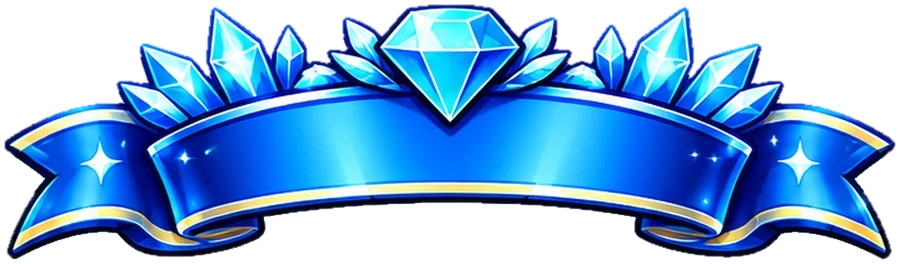
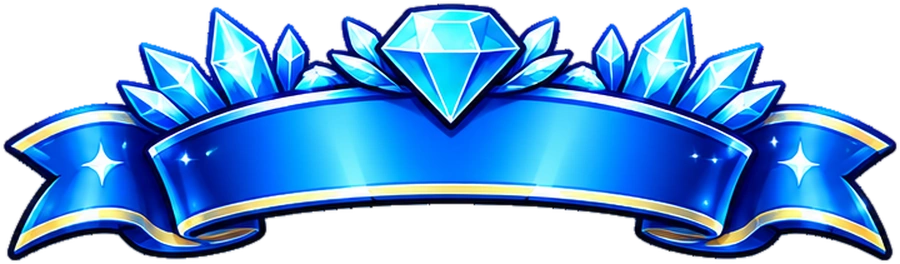
v240 : rubans redécoupés proprement, pseudo centré dans chaque ruban, photo de profil plus petite
Claude-Session: https://claude.ai/code/session_015rMa72ZKTeXG5gb4Qifn48

Changed region(s): [[0.0, 0.0, 1.0, 1.0]]

diff --git a/js/app.js b/js/app.js
@@ -1,17 +1,17 @@
 // Y'a du peuple ? — logique de l'appli (carte, fiche, signalement, compte).
-import { api, DEMO } from './api.js?v=239';
+import { api, DEMO } from './api.js?v=240';
 import {
   MAP_STYLE_URL, DEFAULT_CENTER, DEFAULT_ZOOM, CONTACT_EMAIL, GOOGLE_CLIENT_ID,
   ROUTE, REFRESH_MS,
-} from './config.js?v=239';
+} from './config.js?v=240';
 import {
   LEVELS, LEVEL_INFO, WAIT_INFO, NO_INFO, levelInfo, describeStatus, mainStatus, brandShort,
   theoryLevelAt, parisNow, bestTimeToday, fmtHour, distanceM, fmtDistance, ago,
   levelFromPercent, gDay, dayHours, openDuringHour, bestTimeFromProfile, openState, hoursLines,
   estimateRoute, fmtDuration,
-} from './levels.js?v=239';
-import { airbnbize, addShieldImage } from './mapstyle.js?v=239';
-import { BRAND_PATHS } from './brands.js?v=239';
+} from './levels.js?v=240';
+import { airbnbize, addShieldImage } from './mapstyle.js?v=240';
+import { BRAND_PATHS } from './brands.js?v=240';
 
 // ---------------------------------------------------------------------------
 // État
@@ -1690,9 +1690,9 @@ let imagesPreloaded = false;
 function preloadAccountImages() {
   if (imagesPreloaded) return;
   imagesPreloaded = true;
-  const urls = new Set([...BADGE_ART].map((c) => `icons/badges/${c}.webp?v=239`));
+  const urls = new Set([...BADGE_ART].map((c) => `icons/badges/${c}.webp?v=240`));
   custom.load().then((list) => {
-    (list || []).forEach((c) => { if (/\.(webp|png|svg)$/.test(c.value || '')) urls.add(`${c.value}?v=239`); });
+    (list || []).forEach((c) => { if (/\.(webp|png|svg)$/.test(c.value || '')) urls.add(`${c.value}?v=240`); });
   }).catch(() => {}).finally(() => {
     const go = () => urls.forEach((u) => { const im = new Image(); im.decoding = 'async'; im.src = u; im.decode?.().catch(() => {}); preloaded.push(im); });
     (window.requestIdleCallback || ((f) => setTimeout(f, 300)))(go);
@@ -1752,7 +1752,7 @@ async function renderAccount(tab = 'profil', opts = {}) {
     </div>
     <div class="referral">
       <div class="ref-head">
-        <img class="ref-ico" src="icons/badges/ref1.webp?v=239" alt="">
+        <img class="ref-ico" src="icons/badges/ref1.webp?v=240" alt="">
         <div class="grow"><div class="t">Parrainage</div><div class="s">Invite tes amis : vous gagnez tous les deux.</div></div>
         <span class="ref-count"><b>${p.referrals ?? 0}</b>${(p.referrals ?? 0) > 1 ? 'amis' : 'ami'}</span>
       </div>
@@ -1809,16 +1809,17 @@ const custom = {
   async load() { if (!this.list.length) this.list = await api.customizations() || []; return this.list; },
   find(kind, code) { return this.list.find((c) => c.kind === kind && c.code === code); },
   // Valeur = fichier image de l'appli (icons/avatars/…svg, icons/banners/…svg) ; ancien format emoji/dégradé toléré.
-  img(v, cls = '') { return /\.(webp|png|svg)$/.test(v || '') ? `<img src="${v}?v=239" alt="" class="${cls}">` : (v || ''); },
-  bg(v) { return /\.(webp|png|svg)$/.test(v || '') ? `url(${v}?v=239) center/cover` : v; },
+  img(v, cls = '') { return /\.(webp|png|svg)$/.test(v || '') ? `<img src="${v}?v=240" alt="" class="${cls}">` : (v || ''); },
+  bg(v) { return /\.(webp|png|svg)$/.test(v || '') ? `url(${v}?v=240) center/cover` : v; },
   avatar(code) { return this.img(this.find('avatar', code)?.value, 'avatar-img' + (String(code).startsWith('badge_') ? ' is-badge' : '')); },
   // Bannière = ruban qui porte le pseudo (rubans du 16/11/2026, outils/rubans_sheet2.py, découpés tels quels).
   // Pseudo : centré sur la bande de chaque ruban (hauteur mesurée) + contour de la couleur du ruban, foncée.
-  RIB: { ruban_ciel: ['42%', '#1c4e7f'], ruban_bonbon: ['42%', '#7a1f55'], ruban_turquoise: ['42%', '#0f5145'], ruban_orange: ['42%', '#7a3a00'], ruban_violet: ['42%', '#3d1466'], ruban_laurier: ['42%', '#1e5a4c'], ruban_nuit: ['42%', '#04203f'], ruban_vache: ['42%', '#5a3418'], ruban_damier: ['42%', '#111111'], ruban_flammes: ['42%', '#4a0a05'], ruban_vert: ['47%', '#1f5a0f'], ruban_fleurs: ['54%', '#245c0b'], ruban_coeur: ['59%', '#7d0f45'], ruban_flocon: ['60%', '#0b3a7a'], ruban_engrenage: ['58%', '#064450'], ruban_etoile_or: ['57%', '#6e3300'], ruban_diamant: ['61%', '#0a2f6e'], ruban_flamme_violet: ['58%', '#2e0a52'], ruban_etoile_violet: ['57%', '#3a0b5c'], ruban_couronne: ['56%', '#5a0606'] },
+  // --ty = milieu vertical de la bande du ruban, au centre (mesuré sur les images v240, outils/rubans_decoupe_v3.py)
+  RIB: { ruban_ciel: ['44%', '#1c4e7f'], ruban_bonbon: ['43%', '#7a1f55'], ruban_turquoise: ['42.5%', '#0f5145'], ruban_orange: ['43%', '#7a3a00'], ruban_violet: ['43.5%', '#3d1466'], ruban_laurier: ['43.5%', '#1e5a4c'], ruban_nuit: ['43%', '#04203f'], ruban_vache: ['43.5%', '#5a3418'], ruban_damier: ['44%', '#111111'], ruban_flammes: ['44%', '#4a0a05'], ruban_vert: ['41%', '#1f5a0f'], ruban_fleurs: ['57.9%', '#245c0b'], ruban_coeur: ['57.5%', '#7d0f45'], ruban_flocon: ['58.4%', '#0b3a7a'], ruban_engrenage: ['53.9%', '#064450'], ruban_etoile_or: ['56.3%', '#6e3300'], ruban_diamant: ['56.9%', '#0a2f6e'], ruban_flamme_violet: ['55.8%', '#2e0a52'], ruban_etoile_violet: ['53.5%', '#3a0b5c'], ruban_couronne: ['63%', '#5a0606'] },
   ribbon(code, pseudo) {
     const b = this.find('banner', code) || this.list.find((c) => c.kind === 'banner');
     const [ty, tc] = this.RIB[b?.code] || ['46%', '#0B1F3A'];
-    return `<div class="ribbon" style="--ty:${ty};--tc:${tc};--n:${Math.max(8, [...String(pseudo || '')].length)}">${b ? `<img src="${b.value}?v=239" alt="">` : ''}<span>${esc(pseudo || '')}</span></div>`;
+    return `<div class="ribbon" style="--ty:${ty};--tc:${tc};--n:${Math.max(8, [...String(pseudo || '')].length)}">${b ? `<img src="${b.value}?v=240" alt="">` : ''}<span>${esc(pseudo || '')}</span></div>`;
   },
 };
 async function openCustomize() {
@@ -1831,7 +1832,7 @@ async function openCustomize() {
     const needBadge = !all && c.requires_badge && !mine.has(c.requires_badge);
     const locked = !all && (lvl < c.min_level || needBadge);
     const on = (c.kind === 'avatar' ? p.avatar : p.banner) === c.code;
-    const inner = c.kind === 'avatar' ? `<span class="cz-emoji">${custom.img(c.value, 'cz-img')}</span>` : `<span class="cz-ribbon"><img src="${c.value}?v=239" alt=""></span>`;
+    const inner = c.kind === 'avatar' ? `<span class="cz-emoji">${custom.img(c.value, 'cz-img')}</span>` : `<span class="cz-ribbon"><img src="${c.value}?v=240" alt=""></span>`;
     const label = c.requires_badge ? (needBadge ? '🔒' : '✅') : `${locked ? '🔒 ' : ''}Niv. ${c.min_level}`;
     return `<button type="button" class="cz ${on ? 'on' : ''} ${locked ? 'locked' : ''}" data-kind="${c.kind}" data-code="${c.code}" ${locked ? 'disabled' : ''}>
       ${inner}<span class="cz-lock">${esc(label)}</span></button>`;
@@ -1919,7 +1920,7 @@ const BADGE_ART = new Set(['v1', 'v10', 'v50', 'v100', 'v250', 'v500', 'drive10'
 // Badges en .svg : plus aucun (outils/badges_sheet.py et badges_sheet2.py découpent les images ChatGPT).
 const BADGE_SVG = new Set(); // tous les badges sont maintenant des images ChatGPT (.webp)
 const badgeImg = (code) => BADGE_ART.has(code)
-  ? `<img src="icons/badges/${code}.${BADGE_SVG.has(code) ? 'svg' : 'webp'}?v=239" alt="" class="badge-img">`
+  ? `<img src="icons/badges/${code}.${BADGE_SVG.has(code) ? 'svg' : 'webp'}?v=240" alt="" class="badge-img">`
   : `<span class="badge-emoji">${BADGE_ICONS[code] || '🏅'}</span>`;
 function badgesHtml(rows = []) {
   if (!rows.length) return '<p class="muted">Aucun badge pour le moment.</p>';
@@ -2947,7 +2948,7 @@ async function openWheel(month = parisMonth(-1)) {
   const el = document.createElement('div');
   el.id = 'wheel';
   el.innerHTML = `<button class="wh-x" aria-label="Fermer">✕</button><button class="wh-snd" aria-label="Son">🔊</button>
-    <div class="wh-head"><img src="icons/logo-boot.png?v=239" alt="Y'a du peuple ?"><div class="wh-t">Tirage au sort</div><div class="wh-m">${monthLabel(month)}${official ? '' : ' · essai'}</div></div>
+    <div class="wh-head"><img src="icons/logo-boot.png?v=240" alt="Y'a du peuple ?"><div class="wh-t">Tirage au sort</div><div class="wh-m">${monthLabel(month)}${official ? '' : ' · essai'}</div></div>
     <div class="wh-stage"><div class="wh-ptr"></div><canvas width="900" height="900"></canvas><div class="wh-hub"></div></div>
     <div class="wh-now">⏳</div>
     <div class="wh-info"></div>

diff --git a/css/app.css b/css/app.css
@@ -650,13 +650,13 @@ html, body, .sheet, .sheet-body, .welcome, .cards { touch-action: pan-x pan-y; }
 @keyframes barwait { from { opacity: .45; } to { opacity: 1; } }
 /* Profil : avatar au centre, ruban qui porte le pseudo */
 .profile-head { display: flex; flex-direction: column; align-items: center; text-align: center; gap: 2px; padding-top: 4px; }
-.profile-head .avatar { width: 108px; height: 108px; background: transparent; box-shadow: none; position: relative; z-index: 2; }
+.profile-head .avatar { width: 92px; height: 92px; background: transparent; box-shadow: none; position: relative; z-index: 2; }
 .profile-head .avatar-img { filter: drop-shadow(0 4px 10px rgba(0,0,0,.35)); }
 .profile-head .avatar .avatar-img.is-badge { width: 100%; height: 100%; margin: 0; }
 .profile-head .avatar-edit { right: 2px; bottom: 2px; }
 .ribbon { container-type: inline-size; position: relative; z-index: 1; width: min(100%, 330px); margin-top: 10px; filter: drop-shadow(0 3px 6px rgba(11,31,58,.18)); }
 .ribbon img { display: block; width: 100%; height: auto; }
-.ribbon span { position: absolute; left: 21%; right: 21%; top: var(--ty, 46%); transform: translateY(-50%); text-align: center; font-weight: 900; font-size: min(clamp(15px, 5.2vw, 21px), calc(55cqw / (var(--n, 10) * 0.64))); line-height: 1.15; color: #fff; letter-spacing: .3px; white-space: nowrap; overflow: hidden; text-overflow: ellipsis; padding: 3px 2px;
+.ribbon span { position: absolute; left: 21%; right: 21%; top: var(--ty, 46%); transform: translateY(-42%); text-align: center; font-weight: 900; font-size: min(clamp(15px, 5.2vw, 21px), calc(55cqw / (var(--n, 10) * 0.64))); line-height: 1.15; color: #fff; letter-spacing: .3px; white-space: nowrap; overflow: hidden; text-overflow: ellipsis; padding: 3px 2px;
   text-shadow: 2px 0 0 var(--tc), -2px 0 0 var(--tc), 0 2px 0 var(--tc), 0 -2px 0 var(--tc), 1.5px 1.5px 0 var(--tc), -1.5px 1.5px 0 var(--tc), 1.5px -1.5px 0 var(--tc), -1.5px -1.5px 0 var(--tc), 0 3px 4px rgba(0,0,0,.35); }
 .profile-head .lvl { margin-top: 2px; }
 .cz-ribbon { display: block; width: 100%; }
@@ -863,7 +863,7 @@ html, body, .sheet, .sheet-body, .welcome, .cards { touch-action: pan-x pan-y; }
 #wheel .wh-stage { position: relative; width: min(88vw, 52vh, 460px); aspect-ratio: 1; margin: 16px 0 10px; }
 #wheel canvas { width: 100%; height: 100%; display: block; filter: drop-shadow(0 10px 24px rgba(11,31,58,.35)); }
 #wheel .wh-ptr { position: absolute; left: 50%; top: -14px; transform: translateX(-50%); width: 0; height: 0; border-left: 18px solid transparent; border-right: 18px solid transparent; border-top: 34px solid #0B1F3A; z-index: 2; filter: drop-shadow(0 2px 2px rgba(0,0,0,.3)); }
-#wheel .wh-hub { position: absolute; left: 50%; top: 50%; width: 15%; aspect-ratio: 1; transform: translate(-50%, -50%); border-radius: 50%; background: #fff url('../icons/icon-192.png?v=239') center / 78% no-repeat; box-shadow: 0 2px 8px rgba(0,0,0,.25); }
+#wheel .wh-hub { position: absolute; left: 50%; top: 50%; width: 15%; aspect-ratio: 1; transform: translate(-50%, -50%); border-radius: 50%; background: #fff url('../icons/icon-192.png?v=240') center / 78% no-repeat; box-shadow: 0 2px 8px rgba(0,0,0,.25); }
 #wheel .wh-now { min-height: 44px; font-size: 32px; font-weight: 900; color: #fff; text-shadow: 0 2px 6px rgba(11,31,58,.35); text-align: center; max-width: 100%; overflow: hidden; text-overflow: ellipsis; white-space: nowrap; }
 #wheel .wh-info { font-size: 15px; font-weight: 700; color: #0B1F3A; margin: 2px 0 12px; }
 #wheel .wh-actions { width: min(100%, 420px); margin-top: auto; }

diff --git a/index.html b/index.html
@@ -23,13 +23,13 @@
   <link rel="preconnect" href="https://tiles.openfreemap.org" crossorigin>
   <link rel="preconnect" href="https://ygekcpnsjbbdgtmlxdce.supabase.co" crossorigin>
   <link rel="manifest" href="manifest.webmanifest">
-  <link rel="icon" href="icons/fav-64.png?v=239" type="image/png" sizes="64x64">
-  <link rel="icon" href="icons/fav-192.png?v=239" type="image/png" sizes="192x192">
-  <link rel="apple-touch-icon" href="icons/icon-512.png?v=239">
+  <link rel="icon" href="icons/fav-64.png?v=240" type="image/png" sizes="64x64">
+  <link rel="icon" href="icons/fav-192.png?v=240" type="image/png" sizes="192x192">
+  <link rel="apple-touch-icon" href="icons/icon-512.png?v=240">
   <meta name="apple-mobile-web-app-capable" content="yes">
   <meta name="apple-mobile-web-app-status-bar-style" content="default">
   <link rel="stylesheet" href="vendor/maplibre-gl.css">
-  <link rel="stylesheet" href="css/app.css?v=239" id="app-css">
+  <link rel="stylesheet" href="css/app.css?v=240" id="app-css">
   <style>/* Secours si app.css n'arrive pas : on garde l'écran turquoise au lieu d'une page sans style */
     html.booting, html.booting body, html.css-wait, html.css-wait body { background:#46B8B9; margin:0 }
     html.booting body > *:not(#welcome), html.css-wait body > * { visibility:hidden }
@@ -76,7 +76,7 @@
   <section class="welcome" id="welcome" hidden>
     <div class="welcome-inner">
       <div class="welcome-logo">
-        <img src="icons/logo-boot.png?v=239" alt="Y'a du peuple ?" width="242" height="203">
+        <img src="icons/logo-boot.png?v=240" alt="Y'a du peuple ?" width="242" height="203">
       </div>
       <h1 class="sr-only">Y'a du peuple&nbsp;?</h1>
       <p class="slogan" id="slogan">Venu pour manger, pas pour poireauter.</p>
@@ -95,7 +95,7 @@
 
   <script src="vendor/maplibre-gl.js"></script>
   <script src="vendor/supabase.js"></script>
-  <script type="module" src="js/app.js?v=239"></script>
+  <script type="module" src="js/app.js?v=240"></script>
   <script>
   /* Contrôle du style : si app.css n'a pas été appliqué (réseau coupé au 1er chargement), on le redemande, puis on recharge la page une fois. */
   (function () {
@@ -105,7 +105,7 @@
       document.documentElement.classList.add('css-wait');
       if (n === 0) {
         var l = document.createElement('link'); l.rel = 'stylesheet';
-        l.href = 'css/app.css?v=239&r=' + Date.now(); document.head.appendChild(l);
+        l.href = 'css/app.css?v=240&r=' + Date.now(); document.head.appendChild(l);
         setTimeout(function () { check(1); }, 2500);
       } else if (!sessionStorage.getItem('ydp_css_reload')) {
         sessionStorage.setItem('ydp_css_reload', '1'); location.reload();

diff --git a/demo.html b/demo.html
@@ -9,12 +9,12 @@
   <meta name="theme-color" content="#0B1F3A" media="(prefers-color-scheme: dark)">
   <meta name="theme-color" content="#0B1F3A">
   <link rel="manifest" href="manifest.webmanifest">
-  <link rel="icon" href="icons/fav-64.png?v=239" type="image/png">
-  <link rel="apple-touch-icon" href="icons/icon-512.png?v=239">
+  <link rel="icon" href="icons/fav-64.png?v=240" type="image/png">
+  <link rel="apple-touch-icon" href="icons/icon-512.png?v=240">
   <meta name="apple-mobile-web-app-capable" content="yes">
   <meta name="apple-mobile-web-app-status-bar-style" content="default">
   <link rel="stylesheet" href="vendor/maplibre-gl.css">
-  <link rel="stylesheet" href="css/app.css?v=239">
+  <link rel="stylesheet" href="css/app.css?v=240">
 </head>
 <body class="intro">
   <div id="map" aria-label="Carte des restaurants"></div>
@@ -57,7 +57,7 @@
   <section class="welcome" id="welcome" hidden>
     <div class="welcome-inner">
       <div class="welcome-logo">
-        <img src="icons/icon-512.png?v=239" alt="" width="110" height="110" style="border-radius:26px">
+        <img src="icons/icon-512.png?v=240" alt="" width="110" height="110" style="border-radius:26px">
       </div>
       <h1>Y'a du peuple&nbsp;?</h1>
       <p class="slogan" id="slogan">Venu pour manger, pas pour poireauter.</p>
@@ -77,6 +77,6 @@
   <script>window.YDP_DEMO = true;</script>
   <script src="vendor/maplibre-gl.js"></script>
   <script src="vendor/supabase.js"></script>
-  <script type="module" src="js/app.js?v=239"></script>
+  <script type="module" src="js/app.js?v=240"></script>
 </body>
 </html>

diff --git a/js/demo.js b/js/demo.js
@@ -1,5 +1,5 @@
 // Faux serveur pour le mode démo (?demo) : aucune donnée réelle n'est lue ni écrite.
-import { DEMO_ESTABLISHMENTS as DEMO_ALL } from './demo-data.js?v=239';
+import { DEMO_ESTABLISHMENTS as DEMO_ALL } from './demo-data.js?v=240';
 // Comme la base : Buffalo Grill et Flunch cachés (24/11/2026).
 const DEMO_ESTABLISHMENTS = DEMO_ALL.filter((e) => !/^(Buffalo Grill|Flunch)$/.test(e.brand));
 // Démo envoyée aux futurs partenaires (?demo&resto) : le resto partenaire de démonstration ne porte pas le nom d'un vrai restaurant.
@@ -7,7 +7,7 @@ if (new URLSearchParams(location.search).has('resto')) {
   const e = DEMO_ESTABLISHMENTS.find((x) => x.id === '1410c6a8-46d9-4d6c-83f2-c98b8c7a4c42');
   if (e) e.name = 'Votre restaurant (démo)';
 }
-import { distanceM, LEVELS, theoryLevelAt, parisNow } from './levels.js?v=239';
+import { distanceM, LEVELS, theoryLevelAt, parisNow } from './levels.js?v=240';
 
 const wait = (ms = 150) => new Promise((r) => setTimeout(r, ms));
 

diff --git a/js/api.js b/js/api.js
@@ -1,6 +1,6 @@
 // Accès aux données : Supabase en vrai, ou un faux serveur en mode démo (?demo).
-import { SUPABASE_URL, SUPABASE_PUBLISHABLE_KEY } from './config.js?v=239';
-import { createDemoApi } from './demo.js?v=239';
+import { SUPABASE_URL, SUPABASE_PUBLISHABLE_KEY } from './config.js?v=240';
+import { createDemoApi } from './demo.js?v=240';
 
 // Charge une table par pages de 1000 : 5 pages en parallèle, puis la suite si besoin.
 async function pagesInParallel(page, first = 5) {

diff --git a/outils/rubans_decoupe_v3.py b/outils/rubans_decoupe_v3.py
@@ -1,0 +1,87 @@
+"""Rubans de profil : nouvelle découpe (28/11/2026, demande d'Alexis : plus aucune trace sur les bords, rien de redessiné).
+Les rubans des planches ChatGPT ont tous un contour foncé ; derrière : fond blanc, halo blanc et ombre lavande.
+1) objet = tout ce qui est enfermé par le contour (pixels colorés ou foncés, trous bouchés) ;
+2) bord : le liseré clair/gris qui reste à l'extérieur du contour est retiré, et les pixels du bord prennent
+   la couleur du contour voisin (pas de halo clair) ; transparence lissée sur 1 pixel seulement.
+3) taille d'origine × 1,3 (900 px de large), sans flou ni retouche du dessin.
+Les anciennes images sont gardées dans outils/src/rubans_avant_v3/.
+Usage : python3 outils/rubans_decoupe_v3.py"""
+import os, shutil
+import numpy as np
+from PIL import Image, ImageFilter
+from scipy import ndimage
+
+SHEETS = {
+    'outils/src/rubans_sheet.png':  [None, None, 'ruban_vert', None, None, None, None, None, None, None],
+    'outils/src/rubans_sheet2.png': ['ruban_nuit', 'ruban_turquoise', 'ruban_violet', 'ruban_ciel', 'ruban_laurier',
+                                     'ruban_bonbon', 'ruban_orange', 'ruban_damier', 'ruban_vache', 'ruban_flammes'],
+    'outils/src/rubans_sheet3.png': ['ruban_couronne', 'ruban_etoile_violet', None, 'ruban_flamme_violet', 'ruban_engrenage',
+                                     'ruban_diamant', 'ruban_fleurs', 'ruban_coeur', 'ruban_etoile_or', 'ruban_flocon'],
+}
+OUT_W = 900
+
+def cut(path, codes):
+    im = Image.open(path).convert('RGB')
+    a = np.asarray(im).astype(float)
+    mx, mn = a.max(axis=2), a.min(axis=2)
+    lum = a @ [0.299, 0.587, 0.114]
+    sat = (mx - mn) / np.maximum(mx, 1)
+    # pixels qui appartiennent sûrement au dessin : bien colorés, ou foncés (contour)
+    core = ((sat > 0.45) & (mx > 60)) | ((sat > 0.32) & (lum < 150)) | (lum < 125)
+    # fond = clair et peu coloré, relié au bord de l'image (blanc, halo, ombre lavande)
+    light = ~core
+    lab, _ = ndimage.label(light)
+    edge = set(np.unique(np.concatenate([lab[0], lab[-1], lab[:, 0], lab[:, -1]]))) - {0}
+    bg = np.isin(lab, list(edge))
+    obj = ~bg
+    # trous : bouchés sauf s'ils sont de l'ombre / du fond coincés (clairs et peu colorés, assez grands)
+    holes = ndimage.binary_fill_holes(obj) & ~obj
+    hl, nh = ndimage.label(holes)
+    for j in range(1, nh + 1):
+        h = hl == j
+        shade = (~core[h]).mean() > 0.8 and (sat[h] < 0.25).mean() > 0.8 and (lum[h] > 150).mean() > 0.8
+        if not (shade and h.sum() >= 30): obj |= h
+    obj = ndimage.binary_opening(obj, iterations=1)
+    lab2, k = ndimage.label(ndimage.binary_dilation(obj, iterations=3))
+    sizes = ndimage.sum(obj, lab2, range(1, k + 1))
+    keep = np.argsort(sizes)[::-1][:10] + 1
+    boxes = sorted([(ndimage.find_objects((lab2 == i).astype(int))[0], i) for i in keep],
+                   key=lambda t: (t[0][1].start > a.shape[1] / 2, t[0][0].start))
+    for code, (b, i) in zip(codes, boxes):
+        if not code: continue
+        m = obj & (lab2 == i)
+        # garde seulement le gros morceau (et les ornements de taille notable)
+        l3, k3 = ndimage.label(m)
+        if k3 > 1:
+            sz = ndimage.sum(m, l3, range(1, k3 + 1))
+            m = np.isin(l3, [j + 1 for j, v in enumerate(sz) if v >= sz.max() * 0.02])
+        # épluche depuis l'extérieur le liseré clair / peu coloré resté hors du contour
+        for _ in range(15):
+            border = m & ~ndimage.binary_erosion(m)
+            peel = border & ~core
+            if not peel.any(): break
+            m = m & ~peel
+        # couleur du bord = couleur du contour foncé le plus proche (supprime tout halo clair)
+        dark = m & (lum < 125)
+        dist_in = ndimage.distance_transform_edt(m)
+        _, (iy, ix) = ndimage.distance_transform_edt(~dark, return_indices=True)
+        rgb = a.copy()
+        band = m & (dist_in <= 2.5) & ~dark
+        rgb[band] = a[iy[band], ix[band]]
+        # extension de 1 px de la couleur du contour vers l'extérieur (pour l'anticrénelage)
+        ring = ndimage.binary_dilation(m, iterations=2) & ~m
+        rgb[ring] = a[iy[ring], ix[ring]]
+        alpha = np.asarray(Image.fromarray((m * 255).astype('uint8')).filter(ImageFilter.GaussianBlur(0.6))).astype(float)
+        out = Image.fromarray(np.dstack([np.clip(rgb, 0, 255), alpha]).astype('uint8'), 'RGBA')
+        ys, xs = np.nonzero(m)
+        crop = out.crop((max(0, xs.min() - 3), max(0, ys.min() - 3), min(a.shape[1], xs.max() + 4), min(a.shape[0], ys.max() + 4)))
+        crop = crop.resize((OUT_W, round(crop.height * OUT_W / crop.width)), Image.LANCZOS)
+        dst = f'icons/banners/{code}.webp'
+        os.makedirs('outils/src/rubans_avant_v3', exist_ok=True)
+        if os.path.exists(dst) and not os.path.exists(f'outils/src/rubans_avant_v3/{code}.webp'):
+            shutil.copy(dst, f'outils/src/rubans_avant_v3/{code}.webp')
+        crop.save(dst, quality=95, method=6)
+        print(code, crop.size)
+
+if __name__ == '__main__':
+    for p, c in SHEETS.items(): cut(p, c)
